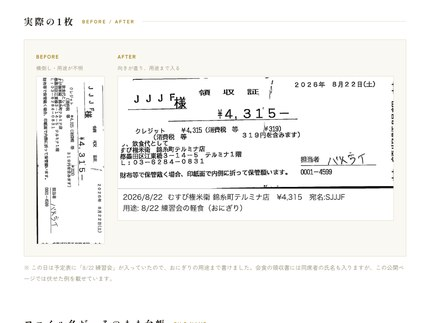
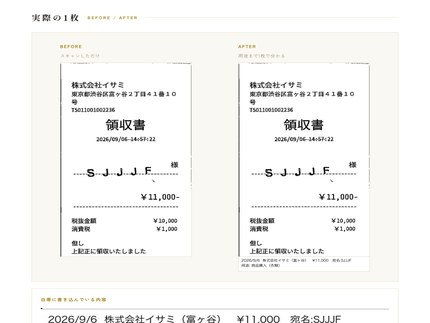
領収書ページ: 実例をイサミの1枚に差し替え、数字を実測値に
- ビフォーアフターの例を、字のはっきりした領収書（¥11,000・物品購入）へ
- 書き込んだ白帯を拡大した画像を追加
- 数字パネルから「2分/1枚」「手入力0件」を削除し、
  スキャン432枚・読み取り済み72件・検索条件3項目に差し替え
- ファイル名の例とトップページのカード文面も合わせて更新

diff --git a/ryoshusho/index.html b/ryoshusho/index.html
@@ -12,7 +12,7 @@
 </script>
 
 <title>領収書のデジタル化</title>
-<meta name="description" content="紙の領収書をスキャンして読み取り、カレンダーの予定と突き合わせて「誰と・何のために」まで画像に焼き込む。柔術連盟の経費精算で実際にやっている手順。">
+<meta name="description" content="紙の領収書をスキャンして読み取り、カレンダーの予定と突き合わせて「誰と・何のために」まで画像に焼き込む。柔術連盟と会社の経費精算で実際にやっている手順。">
 <link rel="stylesheet" href="https://fonts.googleapis.com/css2?family=Shippori+Mincho:wght@500;600;700&family=Zen+Kaku+Gothic+New:wght@400;500;700&display=swap">
 <style>
   :root {
@@ -58,13 +58,16 @@
   .steps p + p { margin-top: 6px; color: var(--faint); font-size: 12.5px; }
 
   /* before / after */
-  .ba { display: grid; grid-template-columns: 150px 1fr; gap: 28px; align-items: start; background: var(--panel); border: 1px solid var(--line); padding: 26px; }
-  .ba figure { margin: 0; }
+  .ba { display: grid; grid-template-columns: 1fr 1fr; gap: 30px; align-items: start; justify-items: center; background: var(--panel); border: 1px solid var(--line); padding: 26px; }
+  .ba figure { margin: 0; max-width: 300px; width: 100%; }
   .ba img { width: 100%; height: auto; display: block; border: 1px solid var(--line); background: #fff; }
   .ba figcaption { font-size: 11px; letter-spacing: .14em; color: var(--gold); margin-bottom: 8px; font-weight: 700; }
   .ba figcaption span { display: block; color: var(--faint); font-weight: 400; letter-spacing: .04em; margin-top: 4px; }
   @media (max-width: 660px) { .ba { grid-template-columns: 1fr; } }
   .ba-note { font-size: 12.5px; color: var(--faint); margin: 12px 0 0; }
+  .band { margin-top: 18px; border: 1px solid var(--line); background: var(--paper); padding: 18px 20px 20px; }
+  .band p { font-size: 11px; letter-spacing: .14em; color: var(--gold); font-weight: 700; margin: 0 0 12px; }
+  .band img { width: 100%; height: auto; display: block; }
 
   /* 箇条書き */
   ul.plain { list-style: none; margin: 0; padding: 0; display: grid; gap: 14px; }
@@ -110,7 +113,7 @@
 <header>
   <p class="brand">RECEIPTS</p>
   <h1>領収書のデジタル化</h1>
-  <p class="lede">紙の領収書を、「日付・金額・相手・用途」が画像1枚で分かる形にする。<br>柔術連盟（SJJJF）の経費精算で、実際にやっている手順です。</p>
+  <p class="lede">紙の領収書を、「日付・金額・相手・用途」が画像1枚で分かる形にする。<br>柔術連盟と会社の経費精算で、実際にやっている手順です。</p>
 </header>
 
 <div class="rank" aria-hidden="true"><span class="w"></span><span class="b"></span><span class="p"></span><span class="br"></span><span class="k"></span></div>
@@ -125,9 +128,9 @@
   </div>
 
   <div class="nums">
-    <div><b>122<i>枚</i></b><span>2026年4〜9月分を<br>まとめて処理</span></div>
-    <div><b>2<i>分</i></b><span>1枚あたりの<br>おおよその手間</span></div>
-    <div><b>0<i>件</i></b><span>台帳への<br>手入力</span></div>
+    <div><b>432<i>枚</i></b><span>スキャンした画像<br>連盟122・会社310</span></div>
+    <div><b>72<i>件</i></b><span>読み取りの終わった<br>領収書（連盟分）</span></div>
+    <div><b>3<i>項目</i></b><span>ファイル名だけで<br>満たす検索条件</span></div>
   </div>
 
   <h2>やっていること<small>FLOW</small></h2>
@@ -161,20 +164,24 @@
   <h2>実際の1枚<small>BEFORE / AFTER</small></h2>
   <div class="ba">
     <figure>
-      <figcaption>BEFORE<span>横倒し・用途が不明</span></figcaption>
-      <img src="/assets/ryoshusho/before.jpg" alt="スキャンしたままの領収証。横倒しで、何のための支払いか分からない">
+      <figcaption>BEFORE<span>スキャンしただけ</span></figcaption>
+      <img src="/assets/ryoshusho/before.jpg" alt="スキャンしたままの領収書。日付と金額と宛名はあるが、何のための支払いかは書かれていない">
     </figure>
     <figure>
-      <figcaption>AFTER<span>向きが直り、用途まで入る</span></figcaption>
-      <img src="/assets/ryoshusho/after.jpg" alt="向きを直し、下部の白帯に日付・店名・金額・宛名・用途を書き込んだ領収証">
+      <figcaption>AFTER<span>用途まで1枚で分かる</span></figcaption>
+      <img src="/assets/ryoshusho/after.jpg" alt="下部の白帯に日付・店名・金額・宛名・用途を書き込んだ領収書">
     </figure>
   </div>
-  <p class="ba-note">※ この日は予定表に「8/22 練習会」が入っていたので、おにぎりの用途まで書けました。会食の領収書には同席者の氏名も入りますが、この公開ページでは伏せた例を載せています。</p>
+  <div class="band">
+    <p>白帯に書き込んでいる内容<span></span></p>
+    <img src="/assets/ryoshusho/band.jpg" alt="領収書の下に足した白帯の拡大。2026/9/6 株式会社イサミ（富ヶ谷） 11,000円 宛名SJJJF、用途は商品購入（衣類）と書かれている">
+  </div>
+  <p class="ba-note">※ 会食の領収書には、予定表から特定した同席者の氏名もこの白帯に入ります。この公開ページでは、氏名の入らない物品購入の1枚を例にしています。</p>
 
   <h2>ファイル名が、そのまま台帳<small>FILE NAME</small></h2>
   <p class="lead-copy">電子帳簿保存法で求められる検索条件は「取引年月日・取引金額・取引先」の3つ。この3つをファイル名に入れておけば、専用のシステムがなくても、フォルダの検索窓だけで探せます。</p>
   <div class="fname">
-    <b><i>20260822</i><u>取引年月日</u></b><span>_</span><b><i>むすび権米衛</i><u>取引先</u></b><span>_</span><b><i>4315</i><u>取引金額</u></b><span>.jpg</span>
+    <b><i>20260906</i><u>取引年月日</u></b><span>_</span><b><i>イサミ</i><u>取引先</u></b><span>_</span><b><i>11000</i><u>取引金額</u></b><span>.jpg</span>
   </div>
   <ul class="plain" style="margin-top: 26px;">
     <li><b>1枚の領収書＝1つのファイル。</b>まとめて1つのPDFにすると、検索の条件を満たせなくなります。</li>

diff --git a/index.html b/index.html
@@ -166,7 +166,7 @@
         <span>
           <p class="eyebrow">06 ・ RECEIPTS</p>
           <h2>領収書のデジタル化<span class="arrow">→</span></h2>
-          <p>紙の領収書をスキャンして読み取り、カレンダーの予定と突き合わせて「誰と・何のために」まで画像に焼き込む手順。ファイル名だけで電子帳簿保存法の検索条件を満たします。連盟の半年分122枚を、これで片付けました。</p>
+          <p>紙の領収書をスキャンして読み取り、カレンダーの予定と突き合わせて「誰と・何のために」まで画像に焼き込む手順。ファイル名だけで電子帳簿保存法の検索条件を満たします。連盟と会社で432枚をスキャンして、順に片付けています。</p>
         </span>
       </a>
 
